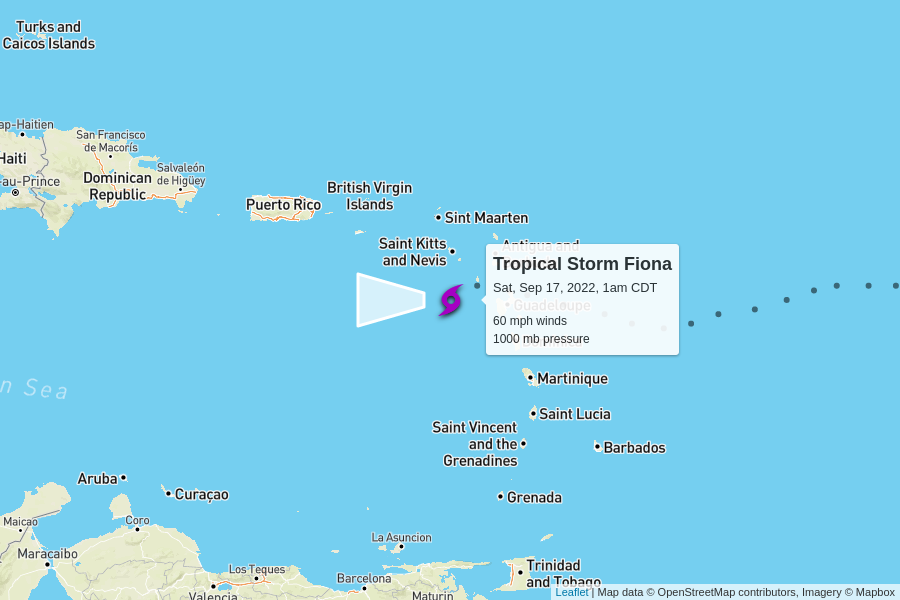
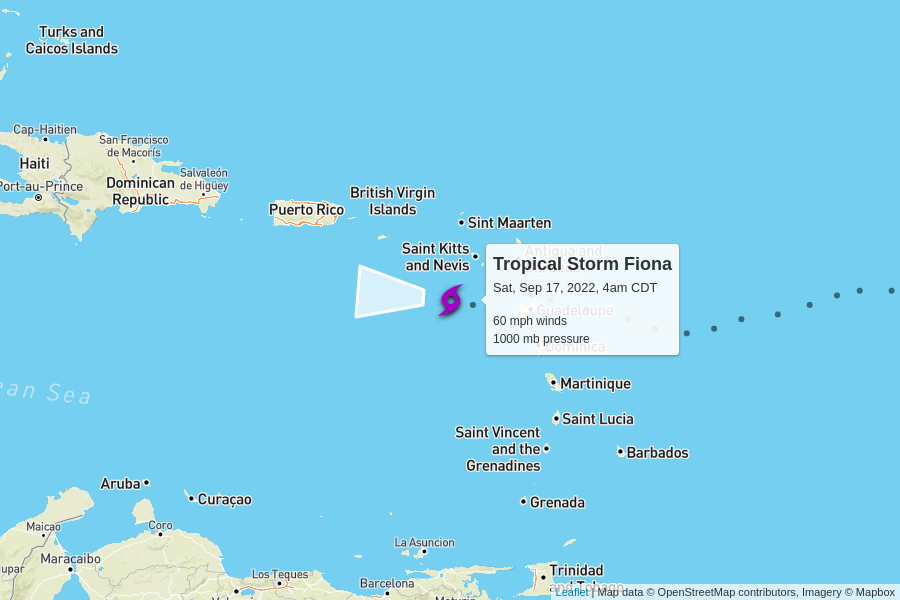
automatic update

diff --git a/docs/index.html b/docs/index.html
@@ -100,7 +100,7 @@
         <td colspan="6" class="storm category-0" >
           <h2>
             Tropical Storm Fiona
-            <p class="updated">last updated <span data-time>2022-09-17T06:00:00.000Z</span></p>
+            <p class="updated">last updated <span data-time>2022-09-17T09:00:00.000Z</span></p>
           </h2>
         </td>
       </tr>
@@ -118,9 +118,9 @@
         <td>60 mph</td>
         <td>1000 mb</td>
         <td>
-          14 mph to the west
+          13 mph to the west
           <br/>
-          <span style="display: inline-block; font-size: 1.5em; transform: rotate(270deg);">↑</span>
+          <span style="display: inline-block; font-size: 1.5em; transform: rotate(275deg);">↑</span>
         </td>
         <td><a href="https://raw.githubusercontent.com/mgwalker/atlantic-hurricanes/main/data/csv/AL072022.csv">AL072022.csv</a></td>
         <td><a href="https://www.nhc.noaa.gov/archive/2022/FIONA.shtml?">NHC advisories</a></td>
